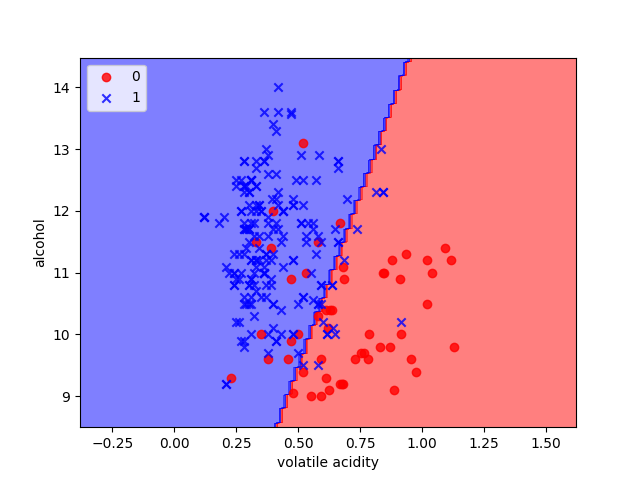
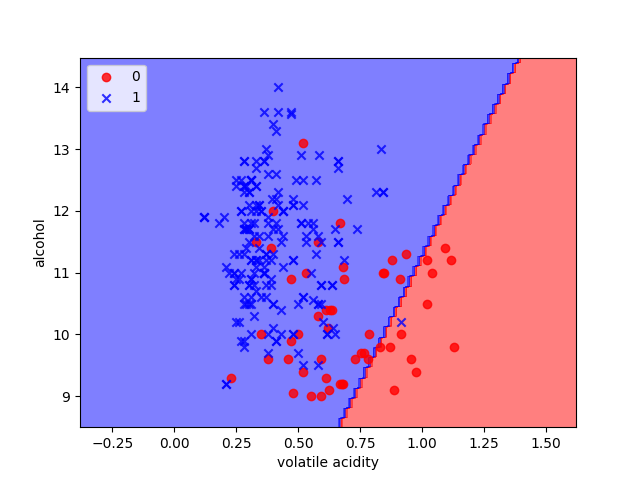
:recycle: retry 100 times

Changed region(s): [[0.4375, 0.125, 0.8125, 0.9062]]

diff --git a/ch02/main.py b/ch02/main.py
@@ -26,7 +26,7 @@ plt.clf()
 X = df.loc[:, [r1, r2]].values
 y = df.loc[:, r3].values
 
-ppn = Perceptron(eta=0.1, n_iter=10)
+ppn = Perceptron(eta=0.1, n_iter=100)
 ppn.fit(X, y)
 
 plt.plot(range(1, len(ppn.errors_) + 1), ppn.errors_, marker="o")
